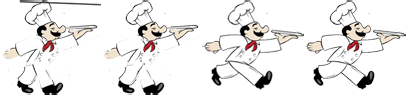
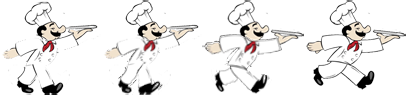
added player sprite

diff --git a/Scripts/objects/player.ts b/Scripts/objects/player.ts
@@ -1,6 +1,6 @@
  module objects {
      // PLAYER CLASS ++++++++++++++++++++++++++++++
-     export class Player extends createjs.Bitmap {
+     export class Player extends createjs.Sprite {
          // PRIVATE INSTANCE VARIABLES
          private _leftBounds: number;
          private _rightBounds: number;
@@ -12,14 +12,14 @@
          public height: number;
          public engineSound: createjs.AbstractSoundInstance;
          constructor() {
-             super(assets.getResult("chef"));
+             super(textureAtlas, "player");
 
              this.width = this.getBounds().width;
              this.height = this.getBounds().height;
              this.regX = this.width * 0.5;
              this.regY = this.height * 0.5;
             this._leftBounds = this.width * 0.5;
-             this._topBounds = this.regX+120;
+             this._topBounds = this.regX;
              this._bottomBounds = config.Screen.HEIGHT - this.regX;
              this._rightBounds = config.Screen.WIDTH - (this.width * 0.75);
 
@@ -55,58 +55,3 @@
          }
      }
 }
-
-//++++++++++++++++++++++++++++++++++++++/////++++++++++++++++++++++////++++++++++++++++++++
-/*module objects {
-    // PLAYER CLASS ++++++++++++++++++++++++++++++
-    export class Player extends createjs.Sprite {
-        // PRIVATE INSTANCE VARIABLES
-        private _leftBounds: number;
-        private _rightBounds: number;
-           protected _topBounds: number;
-         protected _bottomBounds: number;
-         
-        // PUBLIC INSTANCE VARIABLES
-        public width: number;
-        public height: number;
-        public engineSound: createjs.AbstractSoundInstance;
-        constructor() {
-            super(textureAtlas, "plane");
-
-            this.width = this.getBounds().width;
-            this.height = this.getBounds().height;
-
-            this.regX = this.width * 0.5;
-            this.regY = this.height * 0.5;
-
-            this._leftBounds = this.width * 0.5;
-            this._rightBounds = config.Screen.WIDTH - (this.width * 0.5);
-
-            this.y = 430;
-            
-            // assign and play the engine sound
-            this.engineSound = createjs.Sound.play("engine");
-            // Loop engine sound forever
-            this.engineSound.loop = -1;
-        }
-
-        // PRIVATE METHODS
-        private _checkBounds(): void {
-            if (this.x < this._leftBounds) {
-                this.x = this._leftBounds;
-            }
-
-            if (this.x > this._rightBounds) {
-                this.x = this._rightBounds;
-            }
-        }
-
-
-        //PUBLIC METHODS
-        public update(): void {
-            this.y = stage.mouseY;
-            this.x=stage.mouseX;
-            this._checkBounds();
-        }
-    }
-}*/

diff --git a/Scripts/objects/player.js b/Scripts/objects/player.js
@@ -9,13 +9,13 @@ var objects;
     var Player = (function (_super) {
         __extends(Player, _super);
         function Player() {
-            _super.call(this, assets.getResult("chef"));
+            _super.call(this, textureAtlas, "player");
             this.width = this.getBounds().width;
             this.height = this.getBounds().height;
             this.regX = this.width * 0.5;
             this.regY = this.height * 0.5;
             this._leftBounds = this.width * 0.5;
-            this._topBounds = this.regX + 120;
+            this._topBounds = this.regX;
             this._bottomBounds = config.Screen.HEIGHT - this.regX;
             this._rightBounds = config.Screen.WIDTH - (this.width * 0.75);
             //this.y = 360;
@@ -46,62 +46,8 @@ var objects;
             this._checkBounds();
         };
         return Player;
-    }(createjs.Bitmap));
+    }(createjs.Sprite));
     objects.Player = Player;
 })(objects || (objects = {}));
-//++++++++++++++++++++++++++++++++++++++/////++++++++++++++++++++++////++++++++++++++++++++
-/*module objects {
-    // PLAYER CLASS ++++++++++++++++++++++++++++++
-    export class Player extends createjs.Sprite {
-        // PRIVATE INSTANCE VARIABLES
-        private _leftBounds: number;
-        private _rightBounds: number;
-           protected _topBounds: number;
-         protected _bottomBounds: number;
-         
-        // PUBLIC INSTANCE VARIABLES
-        public width: number;
-        public height: number;
-        public engineSound: createjs.AbstractSoundInstance;
-        constructor() {
-            super(textureAtlas, "plane");
-
-            this.width = this.getBounds().width;
-            this.height = this.getBounds().height;
-
-            this.regX = this.width * 0.5;
-            this.regY = this.height * 0.5;
-
-            this._leftBounds = this.width * 0.5;
-            this._rightBounds = config.Screen.WIDTH - (this.width * 0.5);
-
-            this.y = 430;
-            
-            // assign and play the engine sound
-            this.engineSound = createjs.Sound.play("engine");
-            // Loop engine sound forever
-            this.engineSound.loop = -1;
-        }
-
-        // PRIVATE METHODS
-        private _checkBounds(): void {
-            if (this.x < this._leftBounds) {
-                this.x = this._leftBounds;
-            }
-
-            if (this.x > this._rightBounds) {
-                this.x = this._rightBounds;
-            }
-        }
-
-
-        //PUBLIC METHODS
-        public update(): void {
-            this.y = stage.mouseY;
-            this.x=stage.mouseX;
-            this._checkBounds();
-        }
-    }
-}*/ 
 
 //# sourceMappingURL=player.js.map

diff --git a/Scripts/core/_reference.js b/Scripts/core/_reference.js
@@ -16,7 +16,6 @@
 /// <reference path="../objects/fries.ts" />
 /// <reference path="../objects/pepper.ts" />
 /// <reference path="../objects/sauce.ts" />
-/// <reference path="../objects/spritegameobject.ts" />
 /// <reference path="../managers/collision.ts" />
 /// <reference path="../scenes/levelOne.ts" />
 /// <reference path="../scenes/levelTwo.ts" />

diff --git a/Scripts/core/_reference.ts b/Scripts/core/_reference.ts
@@ -18,7 +18,6 @@
 /// <reference path="../objects/fries.ts" />
 /// <reference path="../objects/pepper.ts" />
 /// <reference path="../objects/sauce.ts" />
-/// <reference path="../objects/spritegameobject.ts" />
 /// <reference path="../managers/collision.ts" />
 
 /// <reference path="../scenes/levelOne.ts" />

diff --git a/Scripts/core/game.js b/Scripts/core/game.js
@@ -38,7 +38,7 @@ var atlas = {
         [305, 1, 100, 90, 0, 0, 0]
     ],
     "animations": {
-        "plane": {
+        "player": {
             "frames": [0, 1, 2, 3],
             "speed": 0.1
         }

diff --git a/Scripts/core/game.ts b/Scripts/core/game.ts
@@ -45,7 +45,7 @@ var atlas = {
     ],
 
     "animations": {
-        "plane":{
+        "player":{
             "frames":[0,1,2,3],
             "speed": 0.1
         }
